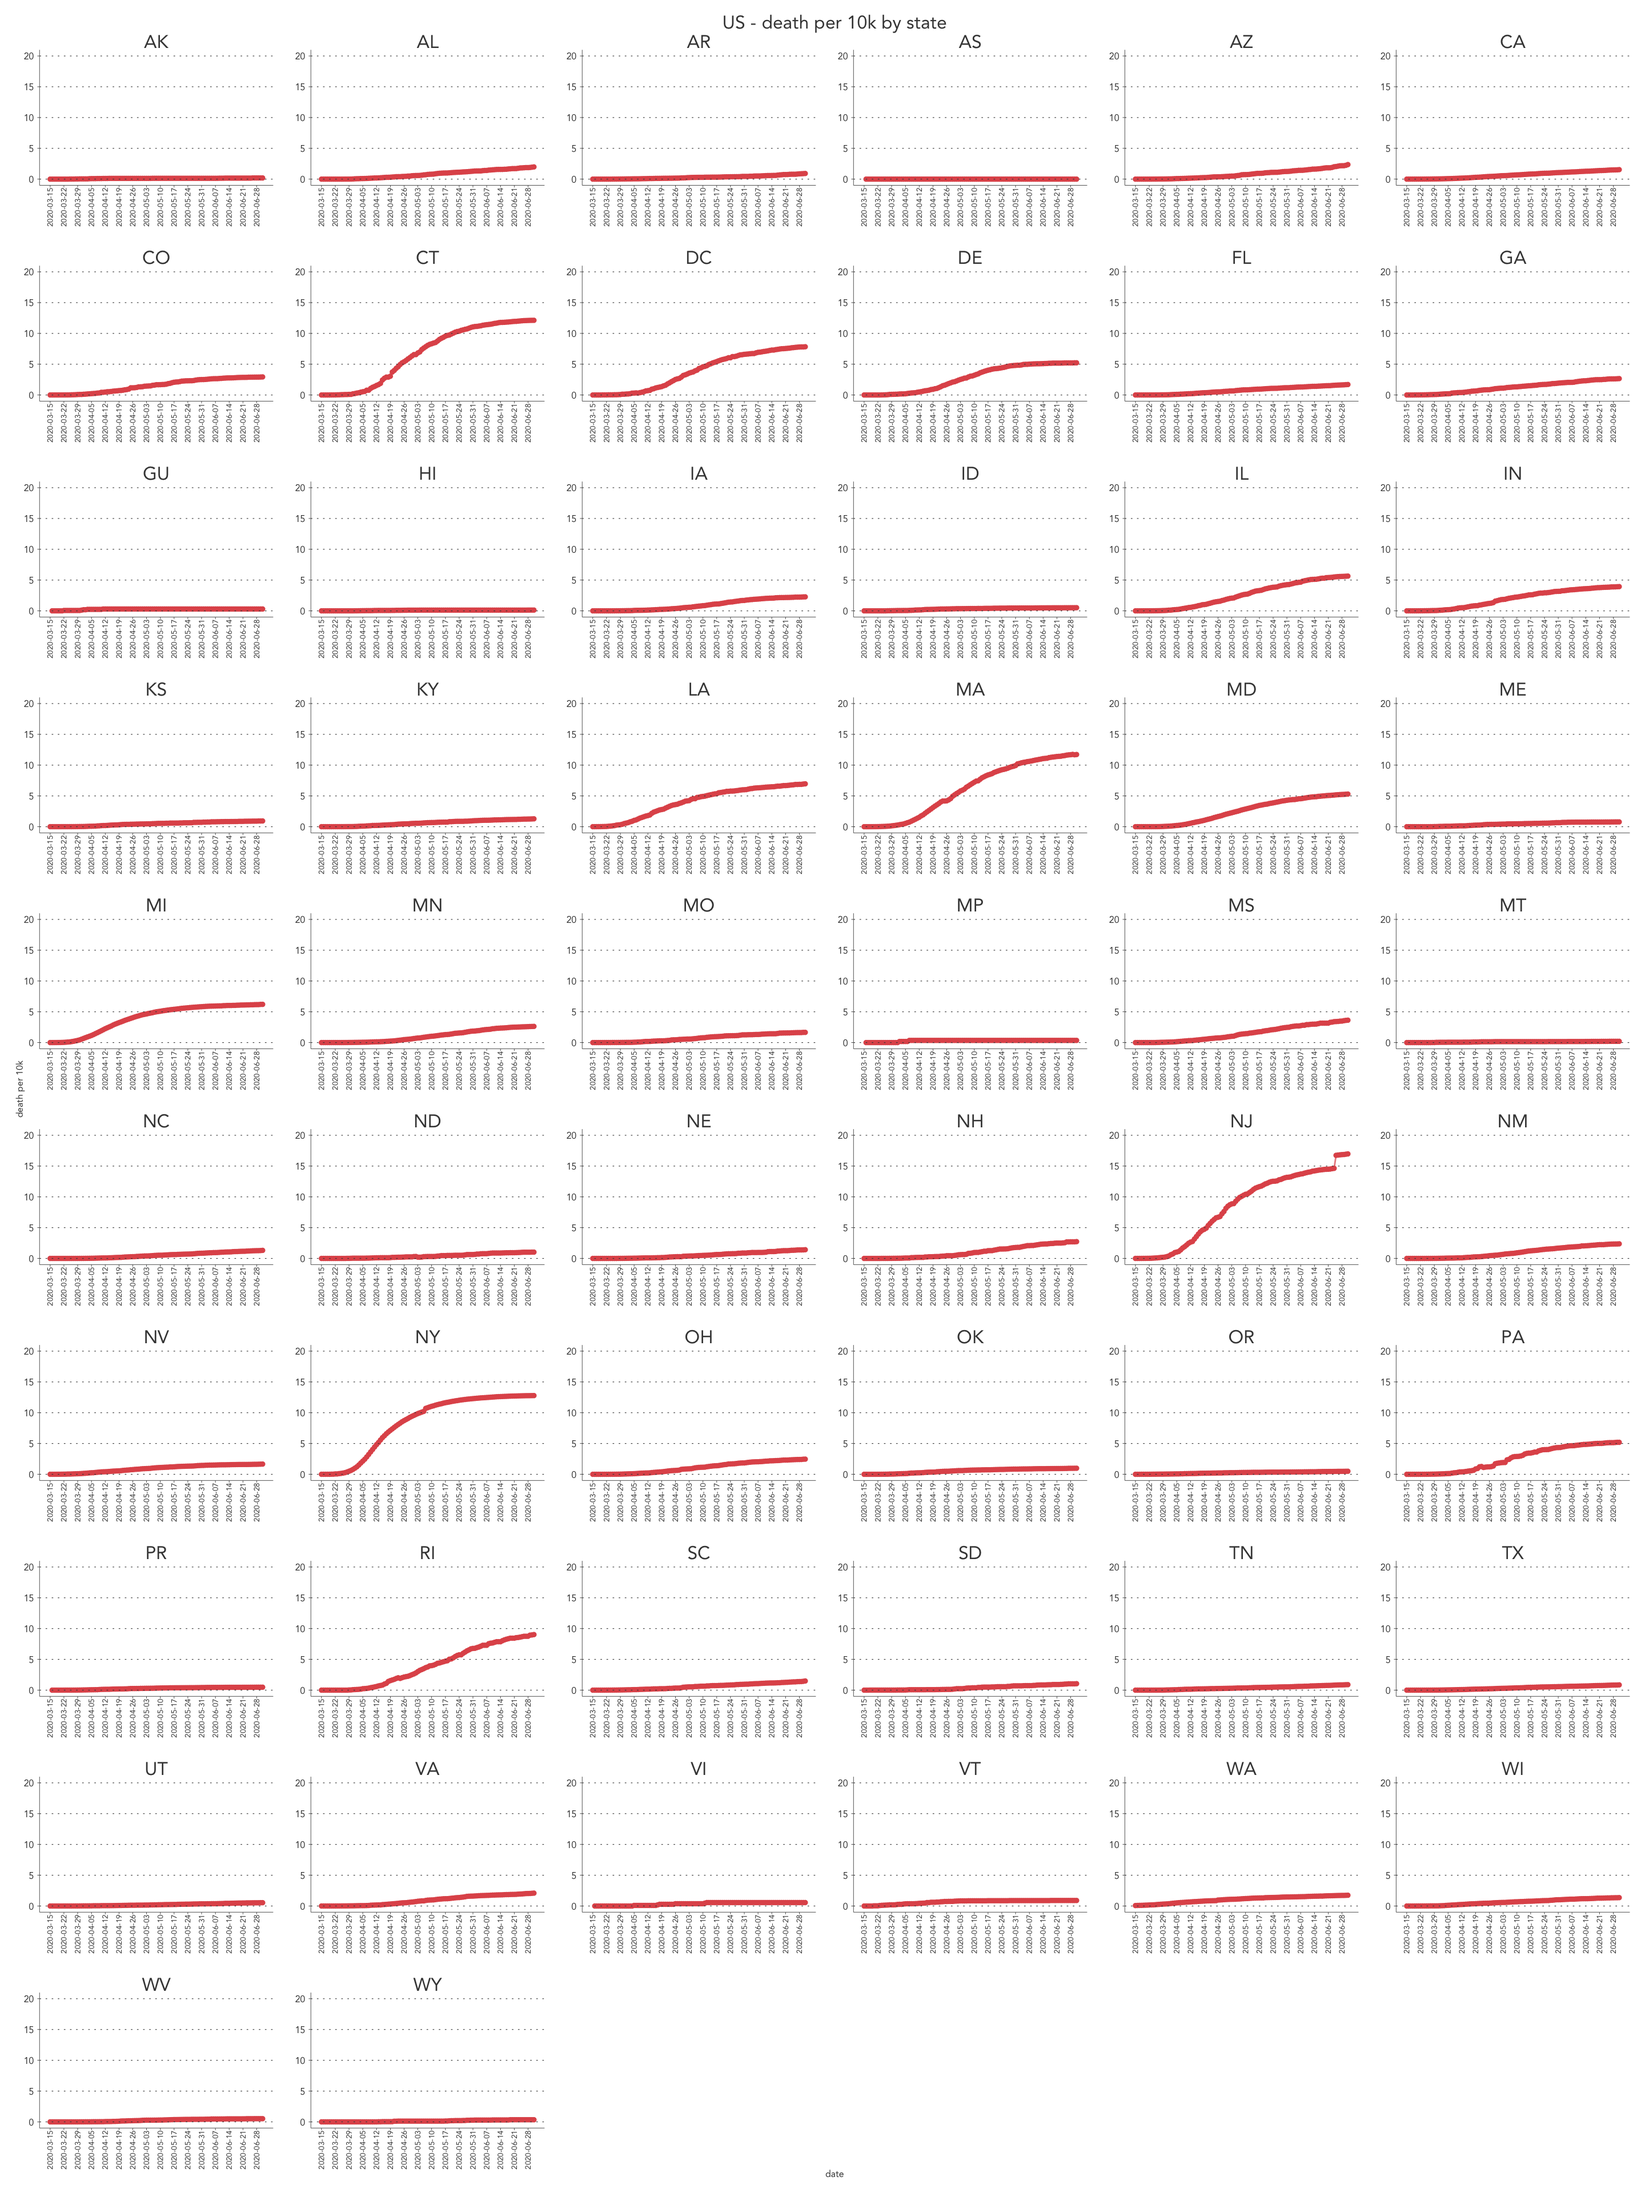
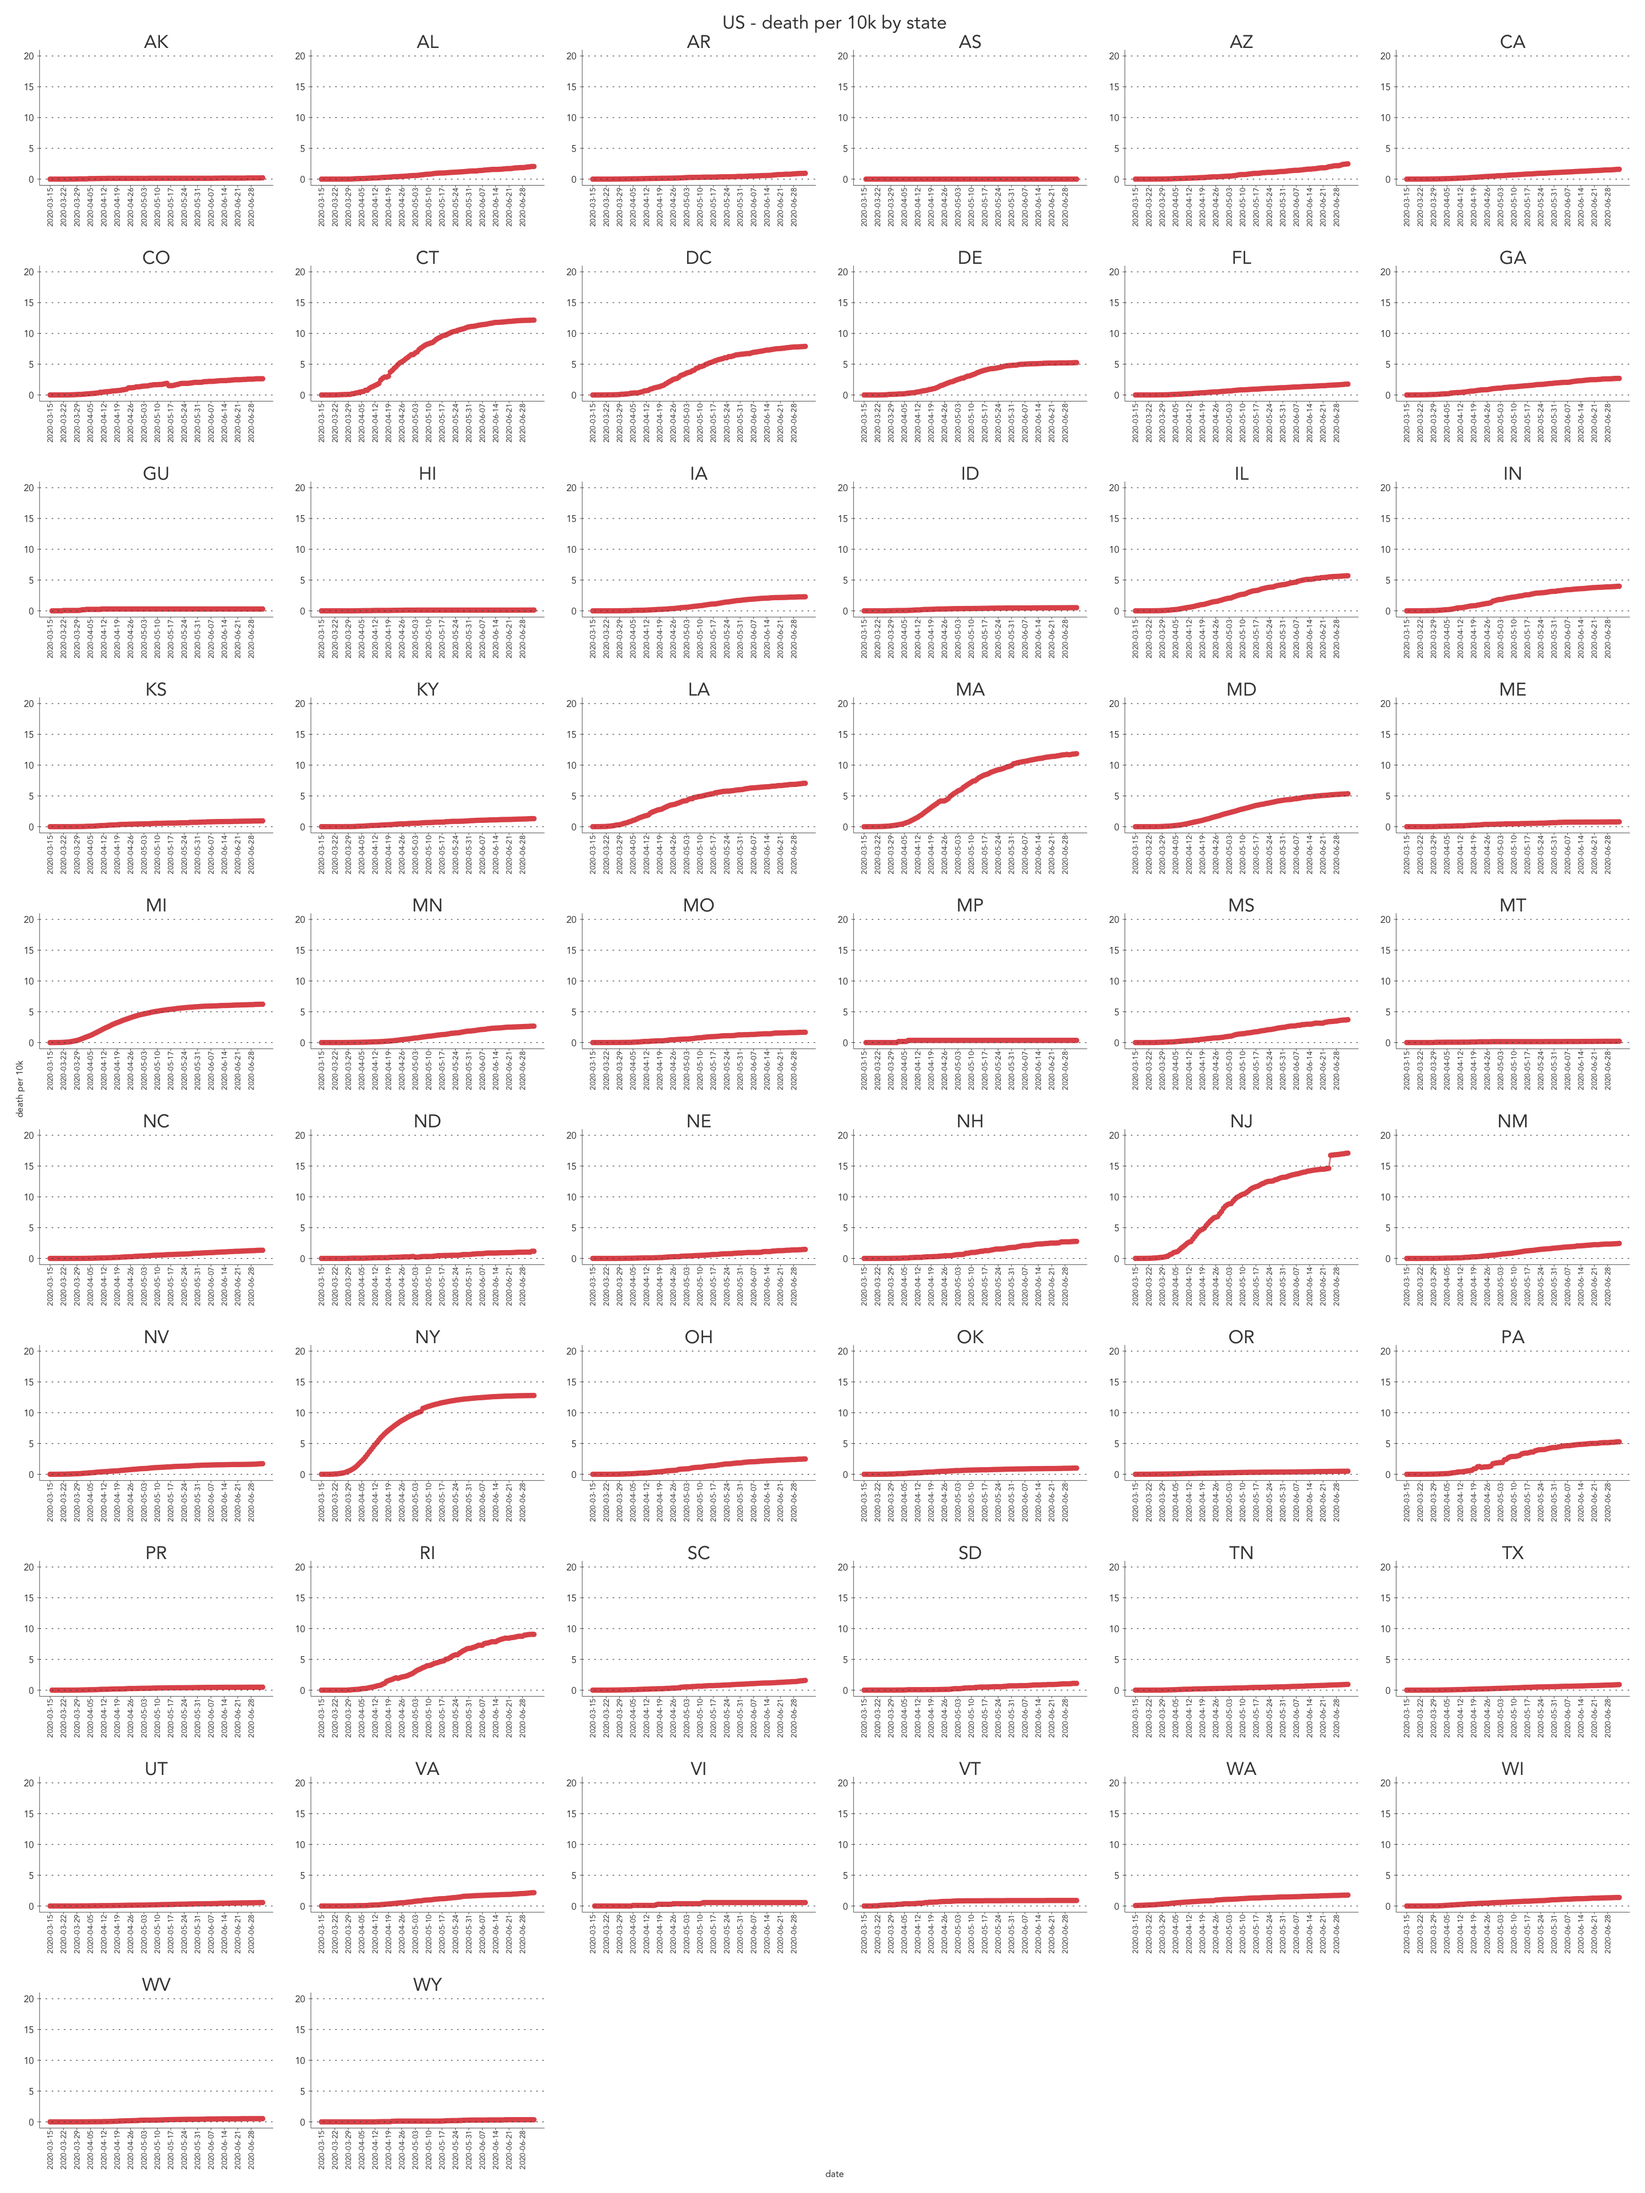
0704 up

diff --git a/covid19-vis.html b/covid19-vis.html
@@ -305,64 +305,64 @@ population
 <tbody>
 <tr>
 <td style="text-align:left;">
-2020-07-01
+2020-07-04
 </td>
 <td style="text-align:left;">
 AK
 </td>
 <td style="text-align:right;">
-978
+1111
 </td>
 <td style="text-align:right;">
-113422
-</td>
-<td style="text-align:right;">
-0
-</td>
-<td style="text-align:right;">
-20
+121621
 </td>
 <td style="text-align:right;">
 0
 </td>
 <td style="text-align:right;">
+23
+</td>
+<td style="text-align:right;">
+0
+</td>
+<td style="text-align:right;">
 0
 </td>
 <td style="text-align:right;">
 0
 </td>
 <td style="text-align:right;">
-2
+3
 </td>
 <td style="text-align:right;">
 0
 </td>
 <td style="text-align:right;">
-528
+544
 </td>
 <td style="text-align:left;">
 A
 </td>
 <td style="text-align:left;">
-7/1/2020 00:00
+7/4/2020 00:00
 </td>
 <td style="text-align:left;">
-2020-07-01T00:00:00Z
+2020-07-04T00:00:00Z
 </td>
 <td style="text-align:left;">
-06/30 20:00
+07/03 20:00
 </td>
 <td style="text-align:right;">
-14
+16
 </td>
 <td style="text-align:right;">
 0
 </td>
 <td style="text-align:left;">
-2020-07-01T00:00:00Z
+2020-07-04T00:00:00Z
 </td>
 <td style="text-align:right;">
-114400
+122732
 </td>
 <td style="text-align:right;">
 0
@@ -377,31 +377,31 @@ A
 2
 </td>
 <td style="text-align:right;">
-38
+48
 </td>
 <td style="text-align:right;">
-2177
+2476
 </td>
 <td style="text-align:right;">
-114400
+122732
 </td>
 <td style="text-align:right;">
-114400
+122732
 </td>
 <td style="text-align:right;">
-2215
+2524
 </td>
 <td style="text-align:right;">
-114400
+122732
 </td>
 <td style="text-align:right;">
-0
+1
 </td>
 <td style="text-align:right;">
 0
 </td>
 <td style="text-align:left;">
-f0f40f098f8b16e361b15186d937fa2a340c9789
+f49f147e3eef28585044609989619aa60af671cb
 </td>
 <td style="text-align:right;">
 0
@@ -427,61 +427,61 @@ f0f40f098f8b16e361b15186d937fa2a340c9789
 </tr>
 <tr>
 <td style="text-align:left;">
-2020-07-01
+2020-07-04
 </td>
 <td style="text-align:left;">
 AL
 </td>
 <td style="text-align:right;">
-38962
+42862
 </td>
 <td style="text-align:right;">
-374991
-</td>
-<td style="text-align:right;">
-0
-</td>
-<td style="text-align:right;">
-797
-</td>
-<td style="text-align:right;">
-2803
+399226
 </td>
 <td style="text-align:right;">
 0
 </td>
 <td style="text-align:right;">
-814
+800
+</td>
+<td style="text-align:right;">
+2906
 </td>
 <td style="text-align:right;">
 0
 </td>
 <td style="text-align:right;">
-464
+843
 </td>
 <td style="text-align:right;">
-18866
+0
+</td>
+<td style="text-align:right;">
+473
+</td>
+<td style="text-align:right;">
+22082
 </td>
 <td style="text-align:left;">
 B
 </td>
 <td style="text-align:left;">
-7/1/2020 11:00
+7/4/2020 11:00
 </td>
 <td style="text-align:left;">
-2020-07-01T11:00:00Z
+2020-07-04T11:00:00Z
 </td>
 <td style="text-align:left;">
-07/01 07:00
+07/04 07:00
 </td>
 <td style="text-align:right;">
-972
+1007
 </td>
 <td style="text-align:right;">
-2803
+2906
 </td>
 <td style="text-align:left;">
-2020-07-01T11:00:00Z
+2020-07-04T11:00:00Z
 </td>
 <td style="text-align:right;">
 0
@@ -493,37 +493,37 @@ B
 0
 </td>
 <td style="text-align:right;">
-38442
+42359
 </td>
 <td style="text-align:right;">
 1
 </td>
 <td style="text-align:right;">
-917
+997
 </td>
 <td style="text-align:right;">
-6384
+10460
 </td>
 <td style="text-align:right;">
-413953
+442088
 </td>
 <td style="text-align:right;">
-413953
+442088
 </td>
 <td style="text-align:right;">
-7301
+11457
 </td>
 <td style="text-align:right;">
-413953
+442088
 </td>
 <td style="text-align:right;">
-22
+1
 </td>
 <td style="text-align:right;">
-34
+23
 </td>
 <td style="text-align:left;">
-1c79b924f9ce2a8b4cd10808f09ca63bd36816c7
+0b3b0fdd152052cf6cf10fec8078b8911df53b19
 </td>
 <td style="text-align:right;">
 0
@@ -549,61 +549,64 @@ B
 </tr>
 <tr>
 <td style="text-align:left;">
-2020-07-01
+2020-07-04
 </td>
 <td style="text-align:left;">
 AR
 </td>
 <td style="text-align:right;">
-21197
+23209
 </td>
 <td style="text-align:right;">
-293661
-</td>
-<td style="text-align:right;">
-0
-</td>
-<td style="text-align:right;">
-275
-</td>
-<td style="text-align:right;">
-1448
+315684
 </td>
 <td style="text-align:right;">
 0
 </td>
 <td style="text-align:right;">
+285
+</td>
+<td style="text-align:right;">
+1536
+</td>
+<td style="text-align:right;">
 0
 </td>
 <td style="text-align:right;">
-72
+0
 </td>
 <td style="text-align:right;">
-224
+70
 </td>
 <td style="text-align:right;">
-15163
+240
+</td>
+<td style="text-align:right;">
+16726
 </td>
 <td style="text-align:left;">
 A
 </td>
 <td style="text-align:left;">
-7/1/2020 14:36
+7/4/2020 00:00
 </td>
 <td style="text-align:left;">
-2020-07-01T14:36:00Z
+2020-07-04T00:00:00Z
 </td>
 <td style="text-align:left;">
-07/01 10:36
+07/03 20:00
 </td>
 <td style="text-align:right;">
-277
+286
 </td>
 <td style="text-align:right;">
-1448
+1536
 </td>
 <td style="text-align:left;">
-2020-07-01T14:36:00Z
+2020-07-04T00:00:00Z
+</td>
+<td style="text-align:right;">
+338893
 </td>
 <td style="text-align:right;">
 0
@@ -612,40 +615,37 @@ A
 0
 </td>
 <td style="text-align:right;">
-0
-</td>
-<td style="text-align:right;">
-21197
+23209
 </td>
 <td style="text-align:right;">
 5
 </td>
 <td style="text-align:right;">
-420
+587
 </td>
 <td style="text-align:right;">
-3235
+7069
 </td>
 <td style="text-align:right;">
-314858
+338893
 </td>
 <td style="text-align:right;">
-314858
+338893
 </td>
 <td style="text-align:right;">
-3655
+7656
 </td>
 <td style="text-align:right;">
-314858
+338893
 </td>
 <td style="text-align:right;">
-7
+5
 </td>
 <td style="text-align:right;">
-35
+19
 </td>
 <td style="text-align:left;">
-cfd94f15c421ac45cb3d3250f464e5cd2ac83d88
+2c6bbea0d826f1a38dce1eed63fb9283adc6ec2c
 </td>
 <td style="text-align:right;">
 0
